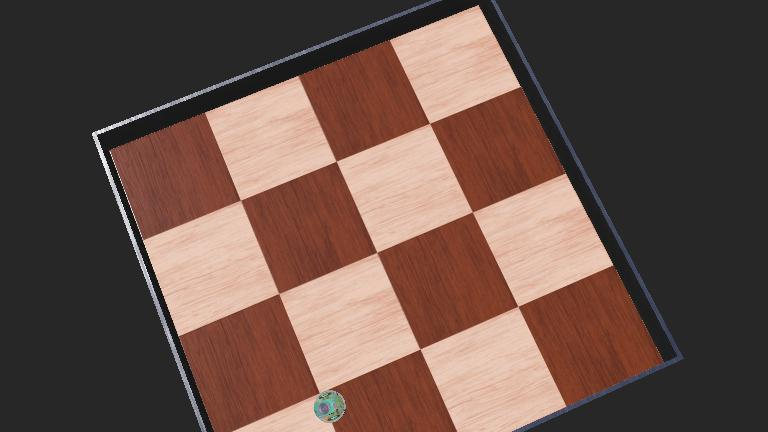
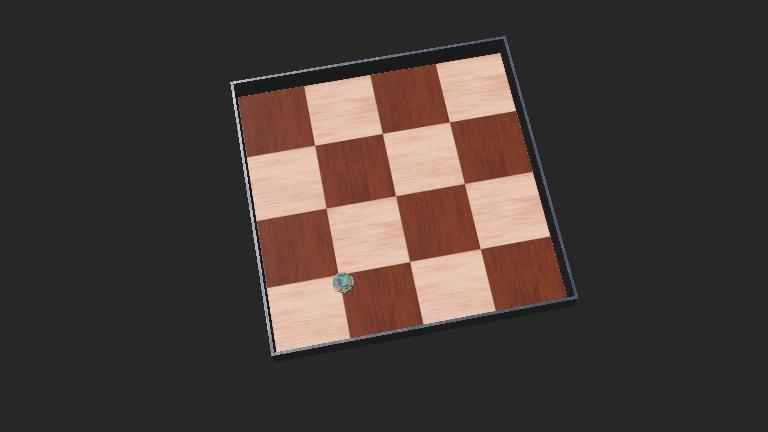
in class updates

diff --git a/learning_webots/controllers/random_walk_in_class/random_walk_in_class.py b/learning_webots/controllers/random_walk_in_class/random_walk_in_class.py
@@ -1,6 +1,6 @@
-from controller import Robot
-
-robot = Robot()
+from controller import Supervisor
+from math import atan2, sqrt, sin, cos
+robot = Supervisor()
 timestep = int(robot.getBasicTimeStep())
 
 motor_left = robot.getDevice('left wheel motor')
@@ -13,10 +13,40 @@ sensor_1 = robot.getDevice('ps1')
 sensor_0.enable(timestep)
 sensor_1.enable(timestep)
 
+motor_left.setVelocity(0)
+motor_right.setVelocity(0)
+
+xt,yt = 0,0
 while robot.step(timestep) != -1:
-    motor_left.setVelocity(4.0)
-    motor_right.setVelocity(4.0)
-    if sensor_0.getValue() > 80.0 or sensor_1.getValue() > 80.0:
-        motor_left.setVelocity(4.0)
-        motor_right.setVelocity(-4.0)
-        robot.step(1000)
+    x = robot.getSelf().getPosition()[0]
+    y = robot.getSelf().getPosition()[1]
+
+    orientation = robot.getSelf().getOrientation()
+    fw_x = orientation[0]
+    fw_y = orientation[3]
+    yaw = atan2(fw_y, fw_x)
+    # normalize yaw to [0, 2*pi]
+    theta = atan2(sin(yaw), cos(yaw))
+    
+    
+    delta_x = xt - x
+    delta_y = yt - y
+
+    theta_prime = atan2(delta_y, delta_x)
+    theta_prime = atan2(sin(theta_prime), cos(theta_prime))
+
+    delta_theta = theta_prime - theta
+    distance = sqrt(delta_x**2 + delta_y**2)
+
+    if distance > 0.01:
+        forward_speed = 3
+        rotation_speed = 2 * delta_theta
+        left_speed = forward_speed - rotation_speed
+        right_speed = forward_speed + rotation_speed
+        left_speed = max(min(left_speed, 4), -4)
+        right_speed = max(min(right_speed, 4), -4)
+        motor_left.setVelocity(left_speed)
+        motor_right.setVelocity(right_speed)
+    else:
+        motor_left.setVelocity(0)
+        motor_right.setVelocity(0)